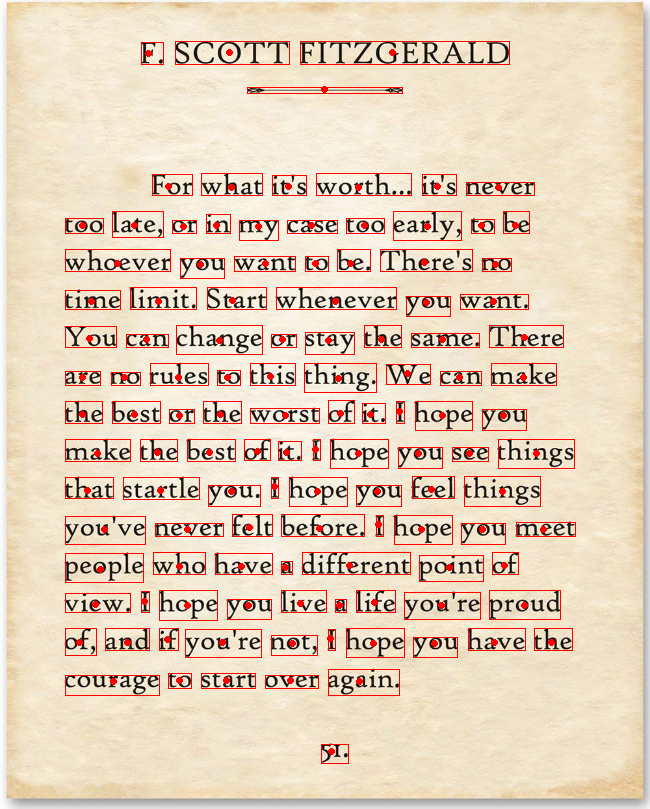
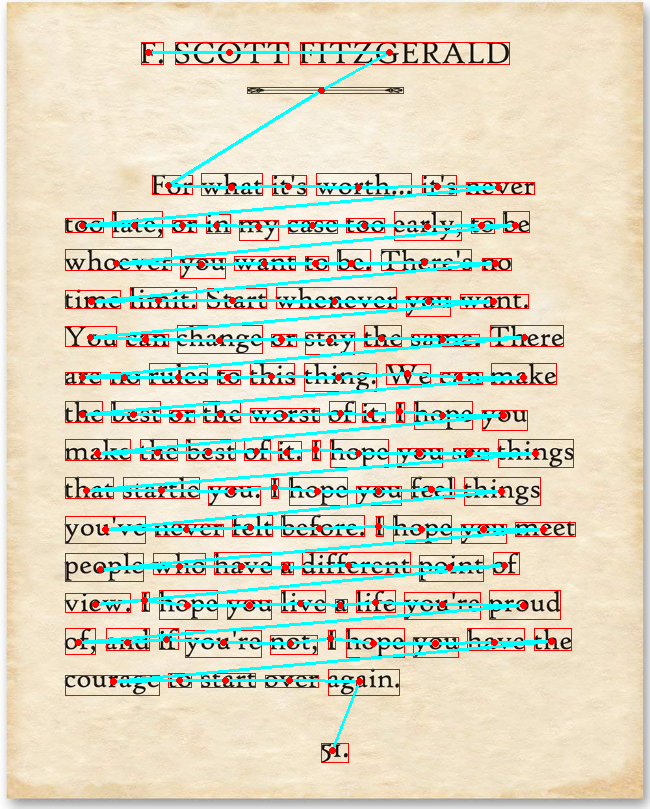
Sort the words in order of how they should be read

diff --git a/src/Tests.py b/src/Tests.py
@@ -1,9 +1,17 @@
 import cv2 as cv
 import numpy as np
+from src.Word import Word
+from operator import itemgetter
 
 FILE_NAME = "../images/page.jpg"
 RESIZE_RATIO = 0.65
 
+
+def getWordOrder(words, start, stop):
+    print(start, stop)
+    wordsInRange = list(filter(lambda w: start <= w.getCenter()[1] <= stop, words))
+    sortedWords = sorted(wordsInRange, key=lambda w: w.getCenter()[0])
+    return sortedWords
 
 # Tracks over all words
 def onTrack(data):
@@ -11,31 +19,29 @@ def onTrack(data):
     temp = img.copy()
 
     # Draw center point of word
-    M = cv.moments(cont[data])
-    cx = int(M['m10'] / (M['m00'] + 1E-5))
-    cy = int(M['m01'] / (M['m00'] + 1E-5))
-    cv.circle(temp, (cx, cy), 2, (0, 0, 255), 2)
+    word = words[data]
+    cv.circle(temp, word.getCenter(), 2, (0, 0, 255), 2)
 
     # Draw bounding box around word, based on far left and right
     # and the top most and bottom most pixel
-    x, y, w, h = cv.boundingRect(cont[data])
+    x, y, w, h = cv.boundingRect(word.getContour())
     cv.rectangle(temp, (x, y), (x + w, y + h), (0, 0, 255), 1)
     cv.imshow("Image", temp)
-    cv.imwrite("one_words.png", temp)
 
 
 cv.namedWindow("Image")
 # Read in image and resize to fit screen
 img = cv.imread(FILE_NAME, cv.IMREAD_COLOR)
 img = cv.resize(img, (0, 0), fx=RESIZE_RATIO, fy=RESIZE_RATIO)
+img2 = img.copy()
 
-# Use Canny to get edges of characters
+# Use Adaptive Thresholding to get individual characters
 gray = cv.cvtColor(img, cv.COLOR_BGR2GRAY)
 gray = cv.bilateralFilter(gray, 11, 75, 75)
-edge = cv.Canny(gray, 50, 150)
+edge = cv.adaptiveThreshold(gray, 255, cv.ADAPTIVE_THRESH_MEAN_C, cv.THRESH_BINARY_INV, 11, 12)
 
 # Show image pre any morphological methods
-cv.imshow("Pre-Edge", edge)
+# cv.imshow("Pre-Edge", edge)
 
 # Dilate to connect letters
 kernel = np.ones((7, 7), np.uint8)
@@ -59,19 +65,47 @@ cv.imshow("Image", img)
 cv.createTrackbar("Word", "Image", 0, len(cont)-1, onTrack)
 
 # Draw the bounding boxes for all the words, and the center points
-img2 = img.copy()
+words = []
 for i in range(0, len(cont)):
-    M = cv.moments(cont[i])
-    cx = int(M['m10'] / (M['m00'] + 1E-5))
-    cy = int(M['m01'] / (M['m00'] + 1E-5))
-    cv.circle(img2, (cx, cy), 2, (0, 0, 255), 2)
-
+    words.append(Word(cont[i]))
     x, y, w, h = cv.boundingRect(cont[i])
     cv.rectangle(img2, (x, y), (x + w, y + h), (0, 0, 255), 1)
 
+# whiteCounts helps separate the sentences
+whiteCount = [0] * gray.shape[0]
+for r in range(0, gray.shape[0]):
+    count = 0
+    for c in range(0, gray.shape[1]):
+        if edge[r, c] != 0:
+            count += 1
+    whiteCount[r] = count
+
+# Sort words by sentences
+orderedWords = []
+i = 0
+while i < len(whiteCount):
+    if whiteCount[i] != 0:
+        startIndex = i
+        while i < len(whiteCount) and whiteCount[i] != 0:
+            i += 1
+        orderedWords.extend(getWordOrder(words, startIndex, i))
+    else:
+        i += 1
+words = orderedWords
+
+# Draw lines to show order of words
+prev = None
+for word in words:
+    if prev is not None:
+        cv.line(img2, prev.getCenter(), word.getCenter(), (255, 255, 0), 2)
+    prev = word
+
+# Draw center points of words
+for word in words:
+    cv.circle(img2, word.getCenter(), 2, (0, 0, 255), 2)
+
 onTrack(0)
 cv.imshow("Words", img2)
-cv.imwrite("all_words.png", img2)
-cv.imshow("Edge", edge)
+# cv.imshow("Edge", edge)
 cv.waitKey(0)
 cv.destroyAllWindows()

diff --git a/src/Word.py b/src/Word.py
@@ -1,0 +1,21 @@
+import cv2 as cv
+
+class Word:
+    def __init__(self, contour):
+        self.contour = contour
+        self.moment = cv.moments(contour)
+
+    def getContour(self):
+        return self.contour
+
+    def getMoment(self):
+        return self.moment
+
+    def getCenter(self):
+        cx = int(self.moment['m10'] / (self.moment['m00'] + 1E-5))
+        cy = int(self.moment['m01'] / (self.moment['m00'] + 1E-5))
+        return cx, cy
+
+    def __str__(self):
+
+        return "(" + self.getCenter()[0] + ", " + self.getCenter()[1] + ")"
